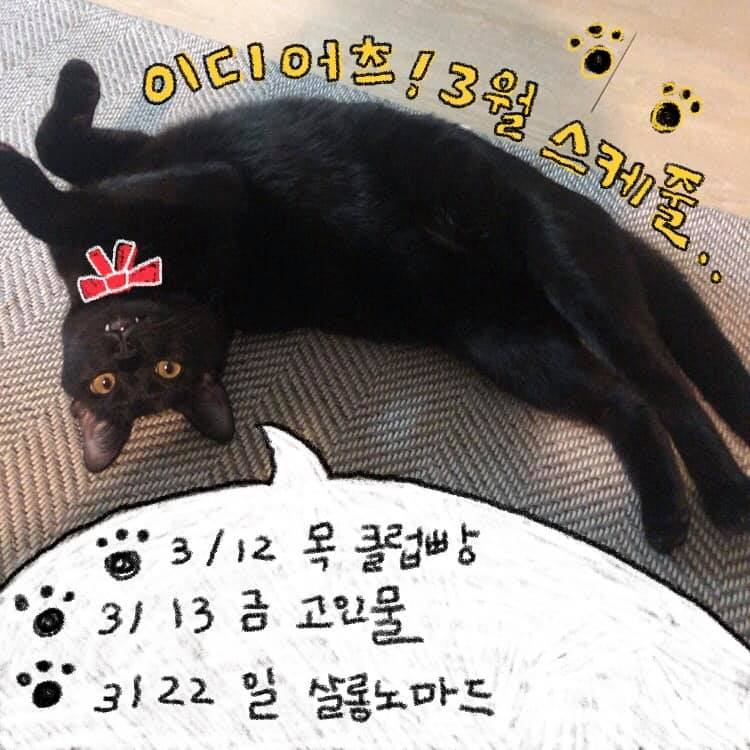
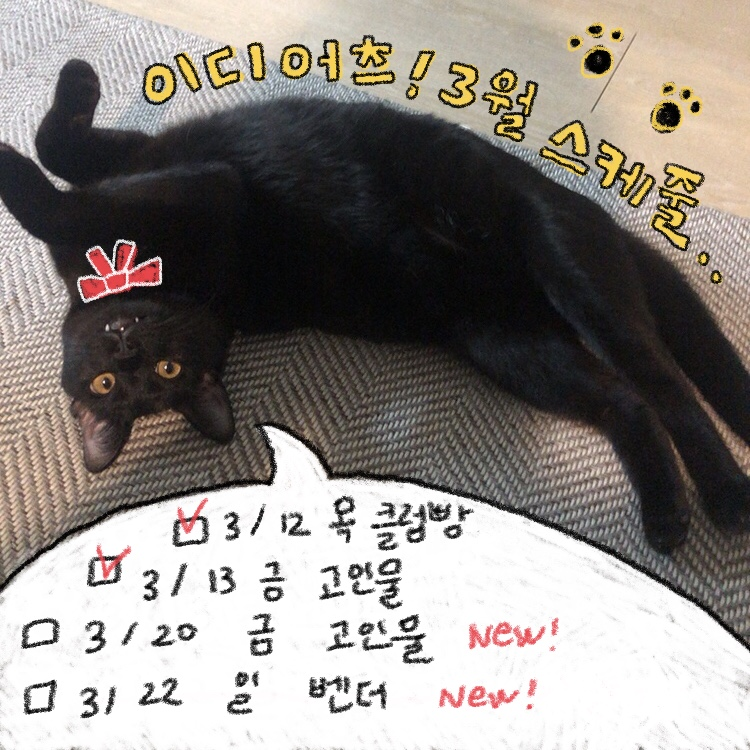
벤더 공연 추가

diff --git a/src/components/ClubMap.tsx b/src/components/ClubMap.tsx
@@ -44,6 +44,11 @@ const placeMapper: {
     placeLink: 'https://place.map.kakao.com/16587801',
     address: '서울 마포구 독막로9길 9',
   },
+  Bender: {
+    placeLink:
+      'https://map.naver.com/v5/search/%EB%B2%A4%EB%8D%94/place/1772316440?c=14128118.6902338,4516064.4484304,14,0,0,0,dh',
+    address: '서울 마포구 와우산로14길 4 지층1',
+  },
 }
 
 interface Props {

diff --git a/src/pages/live/2020-03-22-this-is-not-detour.md b/src/pages/live/2020-03-22-this-is-not-detour.md
@@ -1,0 +1,26 @@
+---
+type: 'live'
+title: 'THIS IS NOT DETOUR'
+posterUrl: ''
+posterUrls:
+  [
+    {
+      src: '/images/posters/2020-03/20200322-bender.jpg',
+      alt: '이디어츠 2020-03-22 벤더 공연 포스터',
+      width: 948,
+      heigt: 1280,
+    },
+    {
+      src: '/images/posters/2020-03/20200322-bender1.jpg',
+      alt: '이디어츠 2020-03-22 벤더 공연 포스터',
+      width: 1769,
+      heigt: 1769,
+    },
+  ]
+place: 'Bender'
+date: '2020.03.22'
+teams: ['Badlamb', 'P:Q']
+priceInfo: '현매 25,000원'
+---
+
+test
